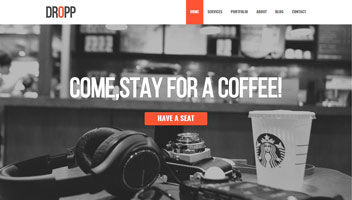
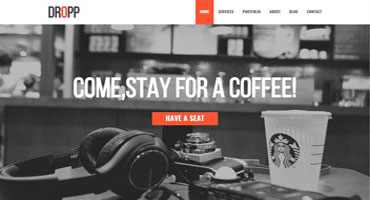
add media quereis

diff --git a/index.html b/index.html
@@ -19,8 +19,9 @@
 </head>
 <body>
 	<!---HEADER-->
+	<div class="wrapper">
 	<div class="header">
-		<div class="wrapper">
+		<div class="container">
 			<div class="row">
 				<div class="col-3">
 					<div class="logo">
@@ -40,7 +41,7 @@
 	</div>
 	<!---HOME-->
 	<div class="home">
-		<div class="wrapper">
+		<div class="container">
 			<div class="row">
 				<div class="col-12 clearfix">
 					<div class="home-title">
@@ -54,9 +55,11 @@
 	<!--ABOUT-->
 	<div class="about">
 		<div class="section-title">
-			<h2 class="tagstyle" >about me</h2>
+			<div class="container">
+				<h2 class="tagstyle" >about me</h2>
+			</div>
 		</div>
-		<div class="wrapper">
+		<div class="container">
 			<div class="row">
 				<div class="col-6">
 					<div class="myphoto">
@@ -92,41 +95,43 @@
 	</div>
 	<!--PORTFOLIO-->
 	<div class="portfolio">
-		<div class="section-title">
-			<h2 class="tagstyle">portfolio</h2>
-		</div>
-		<div class="wrapper">
+			<div class="section-title">
+				<div class="container">
+					<h2 class="tagstyle">portfolio</h2>
+				</div>
+			</div>
+		<div class="container">
 			<div class="row sites">
 				<div class="col-4">
-					<div class="site-1">
-						<a href="/sites/dropp/index.html"><img src="img/site-1.jpg" height="198" width="368" alt=""></a>
+					<div class="site">
+						<a href="/sites/dropp/index.html"><img src="img/site-1.jpg"  alt=""></a>
 					</div>
 				</div>
 				<div class="col-4">
 					<div class="site">
-						<a href="#"  class="tagstyle">place for my work</a>
+						<a href="#"  class="tagstyle empty">place for my work</a>
 					</div>
 				</div>
 				<div class="col-4">
 					<div class="site">
-						<a href="#"  class="tagstyle">place for my work</a>
+						<a href="#"  class="tagstyle empty">place for my work</a>
 					</div>
 				</div>
 			</div>
 			<div class="row sites">
 				<div class="col-4">
 					<div class="site">
-						<a href="#" class="tagstyle">place for my work</a>
+						<a href="#" class="tagstyle empty">place for my work</a>
 					</div>
 				</div>
 				<div class="col-4">
 					<div class="site">
-						<a href="#"  class="tagstyle">place for my work</a>
+						<a href="#"  class="tagstyle empty">place for my work</a>
 					</div>
 				</div>
 				<div class="col-4">
 					<div class="site">
-						<a href="#"  class="tagstyle">place for my work</a>
+						<a href="#"  class="tagstyle empty">place for my work</a>
 					</div>
 				</div>
 			</div>
@@ -135,9 +140,11 @@
 	<!--CONTATCS-->
 	<div class="contacts">
 		<div class="section-title">
-			<h2 class="tagstyle">contacts</h2>
+			<div class="container">
+				<h2 class="tagstyle">contacts</h2>
+			</div>
 		</div>
-		<div class="wrapper">
+		<div class="container">
 			<div class="row">
 				<div class="col-4">
 					<div class="contacts-title">
@@ -151,6 +158,7 @@
 				</div>
 			</div>
 		</div>
+	</div>
 	</div>
 </body>
 </html>

diff --git a/css/main.css b/css/main.css
@@ -17,6 +17,10 @@ body {
   background-color: #272822; }
 
 .wrapper {
+  display: block;
+  width: 100%; }
+
+.container {
   width: 1200px;
   padding: 0 15px;
   margin: 0 auto; }
@@ -90,7 +94,7 @@ body {
   width: 100%;
   height: 800px;
   border-top: 1px solid #3c3d38;
-  background: url(../img/home-bg.jpg) no-repeat 50% 50%;
+  background: url(../img/home-bg.jpg) no-repeat;
   background-size: cover; }
 
 .home-title {
@@ -221,20 +225,26 @@ h2.tagstyle {
   width: 100%;
   height: 200px;
   border: 1px solid #0b0b0a;
-  outline: 1px solid #3c3d38; }
+  outline: 1px solid #3c3d38;
+  overflow: hidden; }
 
 .site img {
   display: block;
+  width: 370px;
+  height: 200px;
   margin: 0 auto; }
 
 .site a {
   display: block;
-  margin-top: 80px;
+  margin-top: 0;
   text-align: center;
   vertical-align: middle;
   font: bold 25px 'Consolas';
   color: #d92731;
   text-shadow: 0px 2px 1px rgba(0, 0, 0, 0.5); }
+
+.site a.empty {
+  margin-top: 80px; }
 
 .contacts {
   display: block;
@@ -286,3 +296,15 @@ h2.tagstyle {
   width: 24px;
   height: 24px;
   background-position: -39px -39px; }
+
+@media only screen and (min-width: 901px) and (max-width: 1199px) {
+  .container {
+    width: 1200px; } }
+
+@media only screen and (min-width: 783px) and (max-width: 900px) {
+  .container {
+    width: 1000px; } }
+
+@media only screen and (max-width: 782px) {
+  .container {
+    width: 750px; } }

diff --git a/sass/main.scss b/sass/main.scss
@@ -16,7 +16,12 @@ h2 {margin: 0}
 body {
 	background-color: #272822;
 }
+
 .wrapper {
+	display: block;
+	width: 100%;
+}
+.container {
   width: 1200px;
   padding: 0 15px;
   margin: 0 auto; 
@@ -93,7 +98,7 @@ body {
 	width: 100%;
 	height: 800px;
 	border-top: 1px solid #3c3d38;
-	background: url(../img/home-bg.jpg) no-repeat 50% 50%;
+	background: url(../img/home-bg.jpg) no-repeat;
 	background-size: cover;
 }
 
@@ -239,22 +244,28 @@ h2.tagstyle {
 	height: 200px;
 	border: 1px solid #0b0b0a;
 	outline: 1px solid #3c3d38;	
+	overflow: hidden;
 }
 
 .site img {
 	display: block;
+	width: 370px;
+	height: 200px;
 	margin: 0 auto;
 }
 
 .site a {
 	display: block;
-	margin-top: 80px;
+	margin-top: 0;
 	text-align: center;
 	vertical-align: middle;
 	font: bold 25px 'Consolas';
 	color: #d92731;
 	text-shadow: 0px 2px 1px rgba(0, 0, 0, 0.5);
+}
 
+.site a.empty {
+	margin-top: 80px;
 }
 
 .contacts {
@@ -311,4 +322,23 @@ h2.tagstyle {
     width: 24px;
     height: 24px;
     background-position: -39px -39px;
+}
+
+// for dekstops
+@media only screen and (min-width: 901px) and (max-width: 1199px) {
+	.container {
+		width: 1200px;
+	}
+}
+// for tablets
+@media only screen and (min-width: 783px) and (max-width: 900px) {
+	.container {
+		width: 1000px;
+	}
+}
+//for smartfones
+@media only screen and (max-width: 782px) {
+	.container {
+		width: 750px;
+	}
 }
